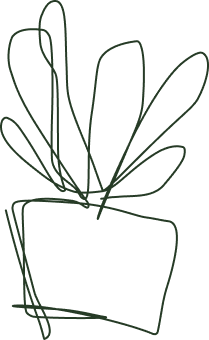
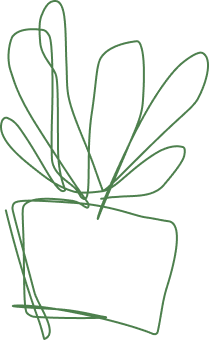
Добавление маскота

diff --git a/docs/.vitepress/theme/custom.css b/docs/.vitepress/theme/custom.css
@@ -2,7 +2,6 @@
 
 /* ========== СВЕТЛАЯ ТЕМА  ========== */
 :root {
-    /* Цвета брэнда */
     --vp-c-brand-1: #375037;
     --vp-c-brand-2: #342327;
 
@@ -96,16 +95,22 @@
     }
 }
 
-/* ========== ОБЩИЕ СТИЛИ (не зависят от темы) ========== */
+/* ========== ОБЩИЕ СТИЛИ  ========== */
 
-/* Картинки в статьях — скругление и тень */
+/* Картинки в статьях */
 .vp-doc img {
     border-radius: 12px;
     box-shadow: 0 4px 10px var(--vp-c-shadow);
     margin: 1rem 0;
 }
 
-/* Текст в статьях — чуть крупнее для удобства чтения */
+.VPHome .VPImage.image-src {
+    max-height: 360px;
+    height: 100%;
+    width: auto;
+}
+
+/* Текст в статьях */
 .vp-doc p,
 .vp-doc li {
     font-size: 1.05rem;

diff --git a/docs/index.md b/docs/index.md
@@ -8,7 +8,7 @@ hero:
   tagline: "База знаний о съедобных комнатных растениях: уход, выращивание, рецепты."
   image:
     src: /images/mascot.png
-    alt: Маскот Сада на подоконнике
+    # alt: Маскот Сада на подоконнике
   actions:
     - theme: brand
       text: Начать знакомство с AI ассистентом